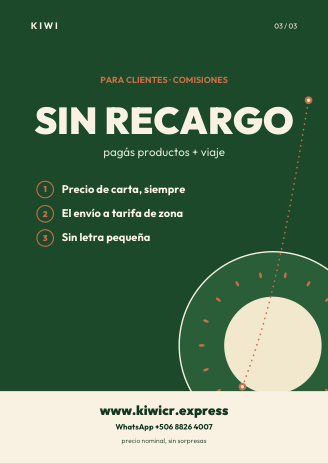
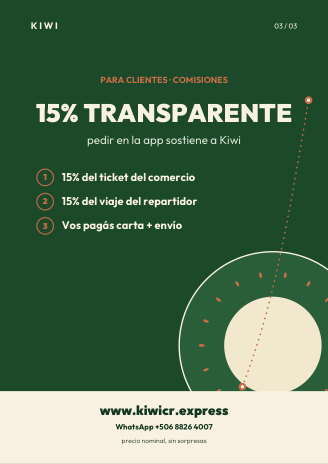
Fix customer commission poster: transparent 15%

Changed region(s): [[0.0915, 0.2112, 0.9146, 0.5431]]

diff --git a/afiches/build_comisiones.py b/afiches/build_comisiones.py
@@ -34,9 +34,9 @@ def main():
         LIME, (W - 100, 215),
     )
     page(
-        c, "03", "PARA CLIENTES · COMISIONES", "SIN RECARGO",
-        "pagás productos + viaje",
-        ["Precio de carta, siempre", "El envío a tarifa de zona", "Sin letra pequeña"],
+        c, "03", "PARA CLIENTES · COMISIONES", "15% TRANSPARENTE",
+        "pedir en la app sostiene a Kiwi",
+        ["15% del ticket del comercio", "15% del viaje del repartidor", "Vos pagás carta + envío"],
         "www.kiwicr.express", "precio nominal, sin sorpresas",
         "WhatsApp +506 8826 4007",
         CLAY, (W - 100, 215),
